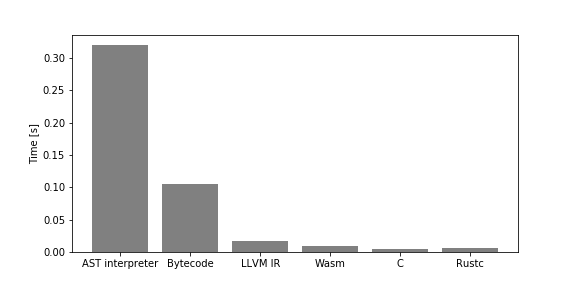
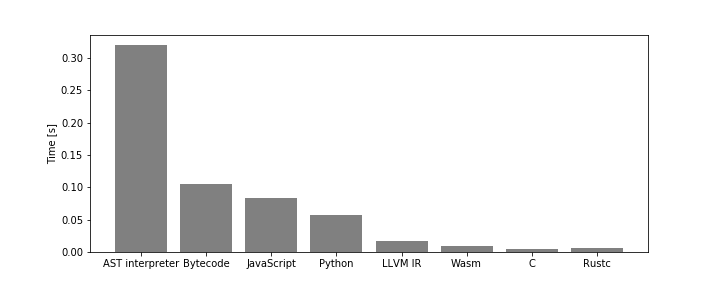
Add Python and JavaScript performance comparison

diff --git a/scripts/mandel_highres.js b/scripts/mandel_highres.js
@@ -1,0 +1,46 @@
+function printdensity(d) {
+  if (d > 127)
+    return " ";
+  else if (d > 8)
+    return ".";
+  else if (d > 4)
+    return "+";
+  else
+    return "*";
+}
+
+function mandelconverge(creal, cimag) {
+    let r = creal;
+    let i = cimag;
+    for (it in [...Array(255)]) {
+        if (r*r + i*i > 4.)
+            return it;
+        let next_r = r * r - i * i + creal
+        i = 2. * r * i + cimag
+        r = next_r
+    }
+    return 255;
+}
+
+function mandel(xmin, ymin, xstep, ystep, xsteps, ysteps) {
+    let xmax = xmin + xstep * xsteps;
+    let ymax = ymin + ystep * ysteps;
+    let ixsteps = xsteps;
+    let iysteps = ysteps;
+    let ret = "";
+    for (iy in [...Array(iysteps)]) {
+        let y = iy * (ymax - ymin) * ystep + ymin;
+        for (ix in [...Array(ixsteps)]) {
+            let x = ix * (xmax - xmin) * xstep + xmin;
+            ret += printdensity(mandelconverge(x,y))
+        }
+        ret += "\n";
+    }
+    return ret;
+}
+
+function main() {
+    console.log(mandel(-2.3, -2.0, 0.025 / 2., 0.05 / 2., 156., 80.));
+}
+
+main();

diff --git a/scripts/mandel_highres.py b/scripts/mandel_highres.py
@@ -1,0 +1,41 @@
+def printdensity(d: int) -> int:
+  if d > 127:
+    return chr(32)
+  elif d > 8:
+    return chr(46)
+  elif d > 4:
+    return chr(43)
+  else:
+    return chr(42)
+
+def mandelconverge(creal: float, cimag: float) -> int:
+    r: float = creal
+    i: float = cimag
+    for it in range(255):
+        if r*r + i*i > 4.:
+            return it
+        next_r: float = r * r - i * i + creal
+        i = 2. * r * i + cimag
+        r = next_r
+    return it
+
+def mandel(xmin: float, ymin: float, xstep: float, ystep: float, xsteps: float, ysteps: float):
+    xmax: float = xmin + xstep * xsteps
+    ymax: float = ymin + ystep * ysteps
+    ixsteps: i32 = int(xsteps)
+    iysteps: i32 = int(ysteps)
+    ret = ""
+    for iy in range(iysteps):
+        y: float = float(iy) * (ymax - ymin) * ystep + ymin
+        for ix in range(ixsteps):
+            x: float = float(ix) * (xmax - xmin) * xstep + xmin
+            ret += printdensity(mandelconverge(x,y))
+        ret += "\n"
+    return ret
+
+def main():
+    print(mandel(-2.3, -2.0, 0.025 / 2., 0.05 / 2., 156., 80.))
+
+if __name__ == "__main__":
+    print("print")
+    main()

diff --git a/README.md b/README.md
@@ -14,7 +14,9 @@ My main interest is the performance among other implementations of runtime.
 
 Here is my simple Mandelbrot set ASCII art rendering time comparison.
 Surprisingly, Wasm is quite fast, even faster than native compiled code via LLVM IR (implemented in [inkwell-ruscal](https://github.com/msakuta/inkwell-ruscal)).
-There are other implementations using AST interpreter and my own bytecode interpreter (implemented in [ruscal](https://github.com/msakuta/ruscal)), but they are very slow. I also put native C and Rust compiled code, but of course they are the fastest.
+There are other implementations using AST interpreter and my own bytecode interpreter (implemented in [ruscal](https://github.com/msakuta/ruscal)), but they are very slow.
+I also put Python and JavaScript (Node.js) as a comparison of popular scripting languages.
+I also put native C and Rust compiled code, but of course they are the fastest.
 
 ![performance](images/mandel-time.png)
 
